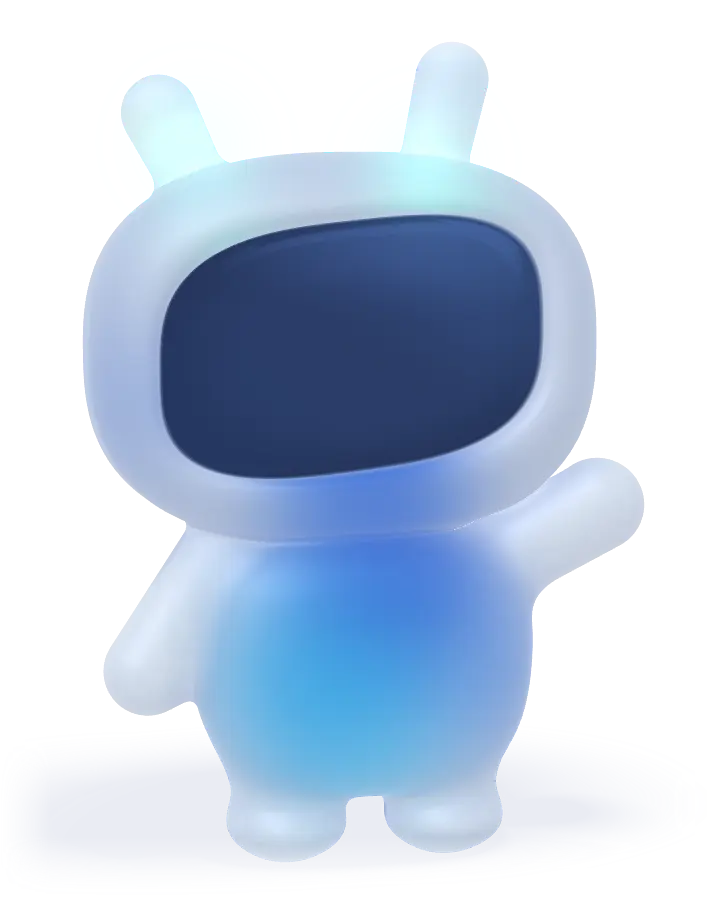
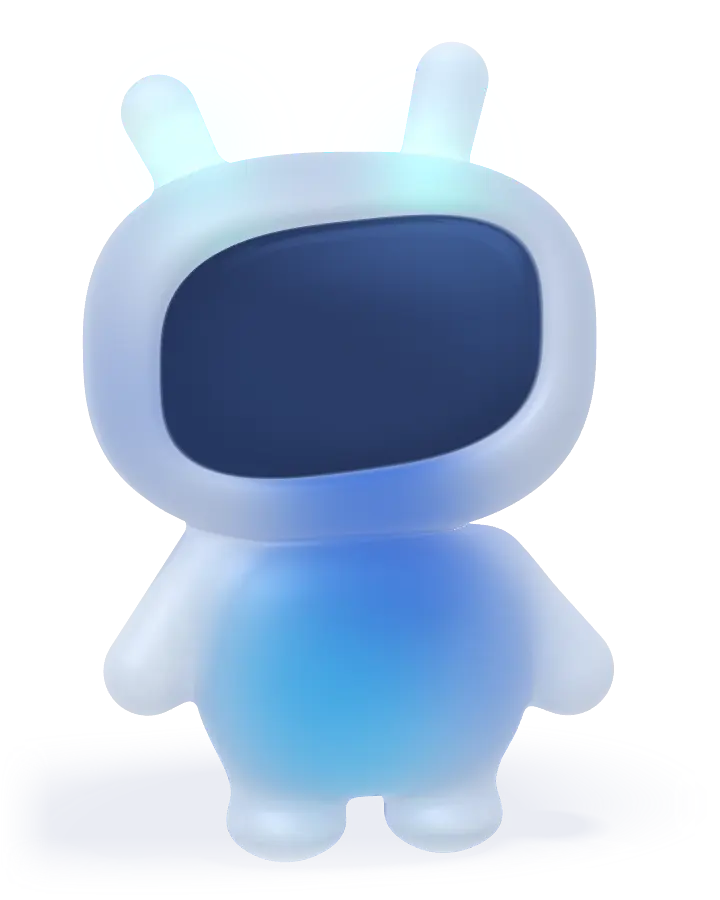
Buddy keeps his hands down except for gestures
His right arm (modelled raised, as in the reference render) now hangs by
his side at rest and lifts for waves: wave(), body taps and the Happy and
Excited reactions; Excited cheers with both arms. The periodic idle wave
is off for Buddy. Posters show the hands-down rest; fidelity still
measures the reference's waving pose (IoU unchanged at 0.942).

Claude-Session: https://claude.ai/code/session_01KKtKDkBDLmha6yDUenA8xH

Changed region(s): [[0.6417, 0.4978, 0.9167, 0.8089]]

diff --git a/src/rig.ts b/src/rig.ts
@@ -28,6 +28,20 @@ const REACT: Partial<Record<FaceName, Reaction>> = {
 export const TAP_FACES: readonly FaceName[] = ['happy', 'excited', 'love', 'laughing', 'giggling', 'surprised', 'cheeky', 'proud'];
 export const reactionJumps = (f: FaceName): boolean => !!REACT[f]?.jump;
 
+/**
+ * Buddy's right arm is modelled raised (the reference render's waving pose). At rest it hangs
+ * by his side, rotated down by this much; gestures lift it back up.
+ */
+export const BUDDY_ARM_DOWN = -1.4;
+/** Buddy's left arm lifted up and out, for the Excited cheer. */
+const BUDDY_ARM_CHEER = -1.5;
+
+/**
+ * Which pose a still render uses: 'rest' is how the guide stands on the page (Buddy's hands
+ * down); 'reference' matches the reference renders (Buddy waving), for fidelity measurement.
+ */
+export type StillPose = 'rest' | 'reference';
+
 interface Motion { roll: number; pitch: number; yaw: number; x: number; droop: number }
 
 /** Continuous, per-face body language. */
@@ -82,6 +96,8 @@ export class Rig {
   ];
   private prevYaw = 0;
   private t = 0;
+  /** how far each of Buddy's arms is lifted for a gesture, 0 (hanging) .. 1 (raised) */
+  private lift = { l: 0, r: 0, tl: 0, tr: 0 };
   world: World = Rig.restWorld('buddy');
 
   constructor(version: Version, now: number) {
@@ -92,6 +108,7 @@ export class Rig {
   setVersion(v: Version): void {
     this.version = v;
     for (const a of this.ants) { a.x = a.z = a.vx = a.vz = 0; }
+    this.lift.l = this.lift.r = this.lift.tl = this.lift.tr = 0;
     const R = VARIANTS[v].rest;
     Object.assign(this.pose, { yaw: R.yaw, pitch: R.pitch, roll: R.roll, hyaw: R.hyaw, hpitch: R.hpitch, hroll: R.hroll });
     this.prevYaw = R.yaw + R.hyaw;
@@ -141,6 +158,7 @@ export class Rig {
     if (now < this.faceUntil || now < this.waveUntil || this.talk > 0.02) return true;
     if (J.y > 0 || Math.abs(J.v) > 0.01 || Math.abs(SQ.x) > 0.003 || Math.abs(SQ.v) > 0.03) return true;
     for (const a of this.ants) if (Math.abs(a.x) + Math.abs(a.z) > 0.004 || Math.abs(a.vx) + Math.abs(a.vz) > 0.04) return true;
+    if (Math.abs(this.lift.r - this.lift.tr) > 0.01 || Math.abs(this.lift.l - this.lift.tl) > 0.01) return true;
     return Math.abs(p.lx - this.gaze.x) > 0.01 || Math.abs(p.ly - this.gaze.y) > 0.01;
   }
 
@@ -219,12 +237,26 @@ export class Rig {
 
     // arms (Buddy, Tall)
     const waving = now < this.waveUntil ? Math.sin((Math.PI * (this.waveUntil - now)) / 1700) : 0;
-    const idleWave = reduce ? 0 : clamp((Math.sin(t * 0.55) - 0.9) / 0.1, 0, 1) * 0.5;
-    const wv = Math.max(waving, idleWave) * (reduce ? 0.4 : 1);
-    const armL = (reduce ? 0 : Math.sin(t * 1.3) * 0.04) + droop * 0.06;
-    let armR = 0, arm2 = 0;
-    if (this.version === 'buddy') armR = Math.sin(t * 10) * 0.32 * wv - droop * 0.5;
-    if (this.version === 'tall') { arm2 = Math.sin(t * 9) * 0.38 * wv; armR = -droop * 0.6; }
+    const sway = reduce ? 0 : Math.sin(t * 1.3) * 0.04;
+    let armL = sway + droop * 0.06, armR = 0, arm2 = 0;
+    if (this.version === 'buddy') {
+      // hands down unless a gesture needs them: waving lifts the right arm, Excited cheers with both
+      const L = this.lift, cheer = f === 'excited' && now < this.faceUntil;
+      L.tr = waving > 0 || cheer ? 1 : 0;
+      L.tl = cheer ? 1 : 0;
+      const up = Math.min(1, dt * 7), down = Math.min(1, dt * 4);
+      L.r += (L.tr - L.r) * (L.tr > L.r ? up : down);
+      L.l += (L.tl - L.l) * (L.tl > L.l ? up : down);
+      const wv = waving * (reduce ? 0.4 : 1);
+      const hang = BUDDY_ARM_DOWN - sway - droop * 0.06;
+      armR = lerp(hang, Math.sin(t * 10) * 0.32 * wv, L.r);
+      armL = lerp(armL, BUDDY_ARM_CHEER + Math.sin(t * 9) * 0.1 * (reduce ? 0.3 : 1), L.l);
+    }
+    if (this.version === 'tall') {
+      const idleWave = reduce ? 0 : clamp((Math.sin(t * 0.55) - 0.9) / 0.1, 0, 1) * 0.5;
+      arm2 = Math.sin(t * 9) * 0.38 * Math.max(waving, idleWave) * (reduce ? 0.4 : 1);
+      armR = -droop * 0.6;
+    }
     w.arm = [armL, armR, arm2];
 
     // antenna glow level
@@ -239,12 +271,13 @@ export class Rig {
     return f;
   }
 
-  /** The still pose used for posters, fidelity renders and Low-tier hit-testing. */
-  static restWorld(version: Version): World {
+  /** A still pose for posters, fidelity renders and Low-tier hit-testing (see StillPose). */
+  static restWorld(version: Version, pose: StillPose = 'rest'): World {
     const R = VARIANTS[version].rest;
+    const arm: Vec3 = version === 'buddy' && pose === 'rest' ? [0, BUDDY_ARM_DOWN, 0] : [0, 0, 0];
     return {
       Rb: euler(R.yaw, R.pitch, R.roll), Rh: euler(R.hyaw, R.hpitch, R.hroll),
-      bodyPos: [0, 0, 0], squash: [1, 1, 1], antRot: [IDENTITY, IDENTITY], arm: [0, 0, 0], glow: 0.75
+      bodyPos: [0, 0, 0], squash: [1, 1, 1], antRot: [IDENTITY, IDENTITY], arm, glow: 0.75
     };
   }
 }

diff --git a/harness/harness.ts b/harness/harness.ts
@@ -5,7 +5,7 @@ import { framing, project } from '../src/camera';
 import { FACES, FH, FW, paintFace, paintFaceCanvas, paintTile, type FaceName } from '../src/faces';
 import { faceCorners } from '../src/geometry';
 import { Renderer } from '../src/renderer';
-import { Rig } from '../src/rig';
+import { Rig, type StillPose } from '../src/rig';
 import type { Level } from '../src/shader';
 import { VARIANTS, type Version } from '../src/variants';
 
@@ -107,7 +107,7 @@ function place(k: Mask, b: Box, H: number, W: number, pad: number): Uint8Array {
   return out;
 }
 
-interface RenderOpts { level?: Level; face?: FaceName | null; t?: number; bg?: string | null }
+interface RenderOpts { level?: Level; face?: FaceName | null; t?: number; bg?: string | null; pose?: StillPose; arm?: [number, number, number] }
 
 const glCanvas = document.createElement('canvas');
 let renderer: Renderer | null = null;
@@ -123,7 +123,9 @@ async function renderStill(version: Version, w: number, h: number, o: RenderOpts
   const face = document.createElement('canvas'); face.width = FW; face.height = FH;
   if (o.face !== null) paintFaceCanvas(face, o.face ?? 'neutral', { t: o.t ?? 0, open: 1, talk: 0, lx: 0, ly: 0 });
   renderer.uploadFace(face);
-  renderer.draw(version, level, Rig.restWorld(version), framing(VARIANTS[version], w, h), w, h);
+  const world = Rig.restWorld(version, o.pose ?? 'rest');
+  if (o.arm) world.arm = o.arm;
+  renderer.draw(version, level, world, framing(VARIANTS[version], w, h), w, h);
   renderer.gl.finish();
   return glCanvas;
 }
@@ -146,7 +148,7 @@ async function fidelity(version: Version, refUrl: string, oursUrl?: string): Pro
   } else {
     rw = img.naturalWidth > 1200 ? Math.round(img.naturalWidth / 2) : img.naturalWidth;
     rh = Math.round((rw / img.naturalWidth) * img.naturalHeight);
-    cv = await renderStill(version, rw, rh, { level: 2 });
+    cv = await renderStill(version, rw, rh, { level: 2, pose: 'reference' }); // the references show Buddy waving
   }
   const d = pixels(cv, rw, rh);
   const ourM = new Uint8Array(rw * rh);
@@ -300,8 +302,8 @@ function flashRate(face: FaceName): number {
 }
 
 /** A still on the reference background colour, as a PNG data URL. */
-async function still(version: Version, w: number, h: number, level: Level): Promise<string> {
-  const cv = await renderStill(version, w, h, { level });
+async function still(version: Version, w: number, h: number, level: Level, arm?: [number, number, number], face?: FaceName): Promise<string> {
+  const cv = await renderStill(version, w, h, { level, ...(arm ? { arm } : {}), ...(face ? { face } : {}) });
   const [c, ctx] = canvasOf(w, h);
   ctx.fillStyle = '#f0f3f0'; ctx.fillRect(0, 0, w, h); ctx.drawImage(cv, 0, 0);
   return toURL(c);
@@ -326,6 +328,19 @@ async function drawCost(version: Version, levels: Level[], n: number): Promise<A
     out.push({ level, ms: (performance.now() - t0) / n, w, h, n });
   }
   r.destroy();
+  return out;
+}
+
+/** Buddy's arm angles over 6 s at 60 fps: wave() at 0.5 s, showFace('excited') at 3 s. */
+function armTimeline(): Array<[number, number, number]> {
+  const rig = new Rig('buddy', 0), out: Array<[number, number, number]> = [];
+  for (let i = 0; i <= 360; i++) {
+    const now = 1000 + i * (1000 / 60);
+    if (i === 30) rig.wave(now);
+    if (i === 180) rig.showFace('excited', 1500, now);
+    rig.tick(now, 1 / 60);
+    if (i % 15 === 0) out.push([+(i / 60).toFixed(2), +rig.world.arm[0].toFixed(2), +rig.world.arm[1].toFixed(2)]);
+  }
   return out;
 }
 
@@ -356,7 +371,7 @@ async function score(version: Version, refUrl: string, patch: Record<string, unk
   const r = Renderer.create(c, { allowSoftware: true, preserve: true })!;
   while (r.request(version, 1) === 'pending') await new Promise(res => setTimeout(res, 20));
   const face = document.createElement('canvas'); face.width = 64; face.height = 40; r.uploadFace(face);
-  r.draw(version, 1, Rig.restWorld(version), framing(VARIANTS[version], w, h), w, h);
+  r.draw(version, 1, Rig.restWorld(version, 'reference'), framing(VARIANTS[version], w, h), w, h);
   const px = new Uint8Array(w * h * 4);
   r.gl.readPixels(0, 0, w, h, r.gl.RGBA, r.gl.UNSIGNED_BYTE, px);
   r.destroy();
@@ -373,7 +388,7 @@ async function score(version: Version, refUrl: string, patch: Record<string, unk
 
 declare global { interface Window { KK: unknown } }
 window.KK = {
-  fidelity, poster, posterFaceQuad, faceGrid, faceCompare, flashRate, score, drawCost, still,
+  fidelity, poster, posterFaceQuad, faceGrid, faceCompare, flashRate, score, drawCost, still, armTimeline,
   faces: FACES.map(f => f[0]),
   ready: true
 };

diff --git a/README.md b/README.md
@@ -53,7 +53,7 @@ current expression ("KayKav course guide: Buddy, happy expression").
 | `setTalkLevel(0..1)` | call as reply text streams in; drives the dash "mouth" while the Talking face shows. Decays by itself (≈0.6 s from 1 to 0), so call it per chunk; `0` stops it at once |
 | `showFace(name, ms = 4200)` | any name from `FACES` (the prototype's keys, e.g. `'giggling'` is "Laughing hard"); `Infinity` holds it |
 | `clearFace()` | back to the mode's face |
-| `wave()`, `jump()` | Buddy and Tall wave an arm; Head and Pod wiggle their antennas |
+| `wave()`, `jump()` | Buddy lifts his right arm and waves, then lowers it; Tall waves his raised hand; Head and Pod wiggle their antennas |
 | `lookAt(x, y)` | gaze, both in −1..1 (right and up are positive). The next pointer move takes over while pointer-follow is on |
 | `setPointerFollow(on)` | |
 | `setTier(t)` | override the tier, or `'auto'` |
@@ -63,6 +63,10 @@ current expression ("KayKav course guide: Buddy, happy expression").
 | `destroy()` | stops the loop, disconnects observers, removes listeners and the poster layer, frees the GL context. A canvas hosts one guide: use a fresh canvas after `destroy()` |
 
 Antenna names in `tap` are from the viewer's side: `leftAntenna` is the one on the left of the screen.
+
+Buddy stands with both hands down. He raises his right arm only for a wave (`wave()`, a tap on
+the body, and the Happy and Excited reactions), and both arms for the Excited cheer. The
+fidelity reports still measure him in the reference render's waving pose.
 
 Also exported: `FACES` (`[key, label]` pairs), `FACE_NAMES`, `FACE_LABEL`, `MODES`, `VERSIONS`,
 `paintFaceTile(canvas, face)` (draws a face on its navy tile, for pickers) and the types.
